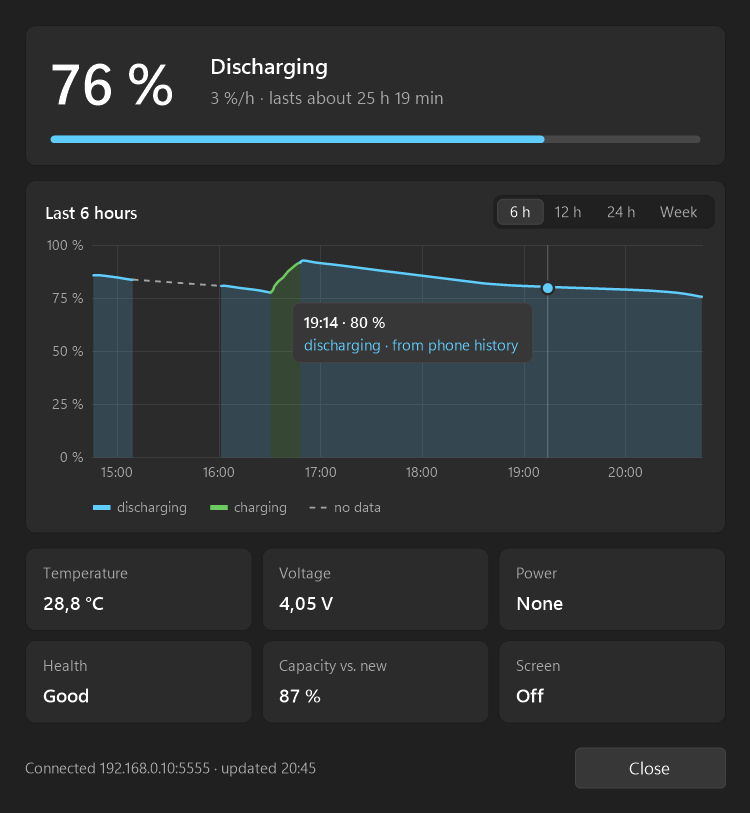
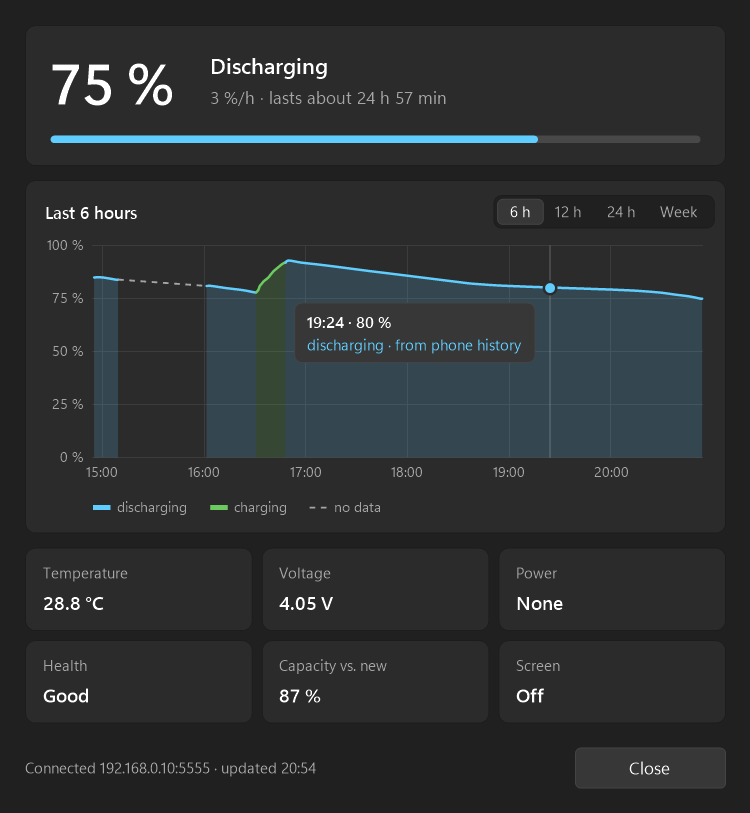
First-run fixes after review
Icon font falls back to Segoe MDL2 Assets on Windows 10; clear tray tips
for a missing adb.exe and for a phone waiting to allow USB debugging;
adb tcpip runs once per USB connection instead of every minute; numbers
follow the interface language; README: SmartScreen, non-Samsung developer
options path, lock screen and adb-over-Wi-Fi notes.

diff --git a/phone-battery.cs b/phone-battery.cs
@@ -56,7 +56,7 @@ static class PhoneBattery
         return "adb.exe";
     }
 
-    static readonly CultureInfo DateCulture = new CultureInfo(RuUi ? "ru-RU" : "en-US");
+    static readonly CultureInfo UiCulture = new CultureInfo(RuUi ? "ru-RU" : "en-US");
     static readonly string[] SpanTitles = { L("Последние 6 часов", "Last 6 hours"), L("Последние 12 часов", "Last 12 hours"), L("Последние 24 часа", "Last 24 hours"), L("Последняя неделя", "Last week") };
     static readonly string[] SpanNames = { L("6 ч", "6 h"), L("12 ч", "12 h"), L("24 ч", "24 h"), L("Неделя", "Week") };
     static readonly Color LineDischarge = Color.FromArgb(0, 103, 192);
@@ -87,6 +87,9 @@ static class PhoneBattery
     static bool? wasCharging;
     static bool lowWarned, lostWarned;
     static int failCount;
+    static volatile bool adbMissing;    // adb.exe could not be started
+    static volatile bool unauthorized;  // the phone is on USB but has not allowed USB debugging yet
+    static string tcpipDone;            // USB serial already switched to Wi-Fi, so adbd is not restarted every minute
 
     [STAThread]
     static void Main(string[] args)
@@ -162,12 +165,14 @@ static class PhoneBattery
             psi.RedirectStandardError = true;
             using (var p = Process.Start(psi))
             {
+                adbMissing = false;
                 var output = p.StandardOutput.ReadToEndAsync();
                 p.StandardError.ReadToEndAsync();
                 if (!p.WaitForExit(timeoutMs)) { try { p.Kill(); } catch { } return ""; }
                 return output.Wait(2000) ? output.Result : "";
             }
         }
+        catch (System.ComponentModel.Win32Exception) { adbMissing = true; return ""; }
         catch { return ""; }
     }
 
@@ -219,8 +224,13 @@ static class PhoneBattery
         string addr = ip == null ? null : ip + ":" + Port;
         var devs = Devices();
         string usb = null;
+        unauthorized = false;
         foreach (var kv in devs)
+        {
+            if (kv.Value == "unauthorized") unauthorized = true;
             if (!kv.Key.Contains(":") && kv.Value == "device") { usb = kv.Key; break; }
+        }
+        if (usb == null) tcpipDone = null;
 
         if (usb != null)
         {
@@ -230,8 +240,9 @@ static class PhoneBattery
                 addr = m.Groups[1].Value + ":" + Port;
                 try { File.WriteAllText(IpFile, m.Groups[1].Value); } catch { }
             }
-            if (addr != null && State(devs, addr) != "device")
+            if (addr != null && State(devs, addr) != "device" && tcpipDone != usb)
             {
+                tcpipDone = usb;
                 RunAdb("-s " + usb + " tcpip " + Port, 8000);
                 Thread.Sleep(2000);
                 RunAdb("connect " + addr, 6000);
@@ -322,7 +333,7 @@ static class PhoneBattery
     static string Temp(Dictionary<string, string> v)
     {
         double t;
-        return double.TryParse(Get(v, "temperature"), out t) ? (t / 10).ToString("0.0") : "?";
+        return double.TryParse(Get(v, "temperature"), out t) ? (t / 10).ToString("0.0", UiCulture) : "?";
     }
 
     static void OnUi(Action a)
@@ -339,13 +350,33 @@ static class PhoneBattery
         if (v == null)
         {
             failCount++;
-            bool warn = failCount >= 3 && !lostWarned;
+            // tray tips are cut at 63 characters
+            string lostTip, lostTitle, lostText;
+            if (adbMissing)
+            {
+                lostTip = L("Телефон: не найден adb.exe", "Phone: adb.exe not found");
+                lostTitle = L("Не найден adb.exe", "adb.exe not found");
+                lostText = L("Положите папку platform-tools из Android SDK рядом с программой — подробности в README.", "Put the Android SDK platform-tools folder next to the program. See the README.");
+            }
+            else if (unauthorized)
+            {
+                lostTip = L("Телефон: разрешите отладку по USB", "Phone: allow USB debugging");
+                lostTitle = L("Разрешите отладку по USB", "Allow USB debugging");
+                lostText = L("На экране телефона: «Всегда разрешать с этого компьютера» и «Разрешить».", "On the phone screen: tick \"Always allow from this computer\" and tap Allow.");
+            }
+            else
+            {
+                lostTip = L("Телефон: нет связи (", "Phone: no connection (") + now + L(")\nПосле перезагрузки — USB-кабель", ")\nAfter a reboot: USB for a minute");
+                lostTitle = L("Телефон не отвечает", "Phone is not responding");
+                lostText = L("Если телефон перезагружался, подключите его кабелем к компьютеру на минуту — программа сама включит связь по Wi-Fi.", "If the phone has rebooted, connect it to the computer by USB for a minute and the program will switch adb back to Wi-Fi.");
+            }
+            bool warn = (adbMissing || unauthorized || failCount >= 3) && !lostWarned;
             if (warn) lostWarned = true;
             OnUi(delegate
             {
                 SetIcon(-1, false);
-                SetTip(L("Телефон: нет связи (", "Phone: no connection (") + now + L(")\nПосле перезагрузки — кабель на минуту", ")\nAfter a reboot, plug in USB for a minute"));
-                if (warn) tray.ShowBalloonTip(10000, L("Телефон не отвечает", "Phone is not responding"), L("Если телефон перезагружался, подключите его кабелем к компьютеру на минуту — программа сама включит связь по Wi-Fi.", "If the phone has rebooted, connect it to the computer by USB for a minute and the program will switch adb back to Wi-Fi."), ToolTipIcon.Warning);
+                SetTip(lostTip);
+                if (warn) tray.ShowBalloonTip(10000, lostTitle, lostText, ToolTipIcon.Warning);
             });
             return;
         }
@@ -449,6 +480,15 @@ static class PhoneBattery
         catch { return false; }
     }
 
+    // Icon glyphs: Segoe Fluent Icons on Windows 11, Segoe MDL2 Assets (same code points) on Windows 10
+    static Font IconFont(float px)
+    {
+        var f = new Font("Segoe Fluent Icons", px, GraphicsUnit.Pixel);
+        if (f.Name == "Segoe Fluent Icons") return f;
+        f.Dispose();
+        return new Font("Segoe MDL2 Assets", px, GraphicsUnit.Pixel);
+    }
+
     static Font UiFont(float px, bool semibold, bool display)
     {
         string name = display ? (semibold ? "Segoe UI Variable Display Semib" : "Segoe UI Variable Display")
@@ -502,7 +542,7 @@ static class PhoneBattery
         var r = new List<string[]>();
         double volt;
         r.Add(new[] { L("Температура", "Temperature"), Temp(v) + " °C" });
-        if (double.TryParse(Get(v, "voltage"), out volt)) r.Add(new[] { L("Напряжение", "Voltage"), (volt / 1000).ToString("0.00") + L(" В", " V") });
+        if (double.TryParse(Get(v, "voltage"), out volt)) r.Add(new[] { L("Напряжение", "Voltage"), (volt / 1000).ToString("0.00", UiCulture) + L(" В", " V") });
         r.Add(new[] { L("Питание", "Power"), Cap(Power(v)) });
         r.Add(new[] { L("Здоровье", "Health"), Cap(HealthName(Get(v, "health"))) });
         if (Get(v, "mSavedBatteryAsoc") != "") r.Add(new[] { L("Ёмкость от заводской", "Capacity vs. new"), Get(v, "mSavedBatteryAsoc") + " %" });
@@ -980,7 +1020,7 @@ static class PhoneBattery
                 {
                     DateTime noon = day.AddHours(12);
                     if (noon > from && noon < now)
-                        g.DrawString(day.ToString("ddd d", DateCulture), small, axisText, X(noon), top + ph + 4 * k, sfCenter);
+                        g.DrawString(day.ToString("ddd d", UiCulture), small, axisText, X(noon), top + ph + 4 * k, sfCenter);
                 }
             }
             else
@@ -1101,7 +1141,7 @@ static class PhoneBattery
         using (var ring = new SolidBrush(t.Card)) g.FillEllipse(ring, px - 6 * k, py - 6 * k, 12 * k, 12 * k);
         using (var dot = new SolidBrush(c)) g.FillEllipse(dot, px - 4 * k, py - 4 * k, 8 * k, 8 * k);
 
-        string when = geo.Hours > 48 ? s.T.ToString("ddd d MMM, HH:mm", DateCulture) : s.T.ToString("HH:mm");
+        string when = geo.Hours > 48 ? s.T.ToString("ddd d MMM, HH:mm", UiCulture) : s.T.ToString("HH:mm");
         string line1 = when + " · " + s.Level + " %";
         string line2 = (s.Charging ? L("заряжается", "charging") : L("разряжается", "discharging")) + (s.Phone ? L(" · по истории телефона", " · from phone history") : "");
         using (var f1 = UiFont(13 * k, true, false))
@@ -1165,7 +1205,7 @@ static class PhoneBattery
             g.TextRenderingHint = TextRenderingHint.AntiAlias;
             g.PixelOffsetMode = PixelOffsetMode.HighQuality;
             Color c = level < 0 ? Gray : (!charging && level <= LowLevel ? Red : fore);
-            using (var f = new Font("Segoe Fluent Icons", S * 0.9f, GraphicsUnit.Pixel))
+            using (var f = IconFont(S * 0.9f))
                 DrawCentered(g, GlyphPhone, f, c, new RectangleF(0, 0, S, S));
 
             float inX = S * 0.31f, inW = S * 0.38f, top = S * 0.17f, h = S * 0.62f;
@@ -1179,7 +1219,7 @@ static class PhoneBattery
             using (var b = new SolidBrush(Color.FromArgb(110, c)))
                 g.FillRectangle(b, inX, top + h - fh, inW, fh);
             if (charging)
-                using (var f = new Font("Segoe Fluent Icons", S * 0.34f, GraphicsUnit.Pixel))
+                using (var f = IconFont(S * 0.34f))
                     DrawCentered(g, GlyphBolt, f, fore, new RectangleF(0, 0, S, S));
         }
         return bmp;

diff --git a/README.md b/README.md
@@ -15,7 +15,8 @@ camera facing you, and you cannot see its screen.
 - **Hover** the icon for level, state, temperature, screen on/off and the
   time of the last reading.
 - **Double-click** (or "Wake phone" in the menu) turns the phone screen on
-  and dismisses the lock screen, so the camera app gets a picture again.
+  and dismisses the lock screen if it has no PIN or pattern, so the camera
+  app gets a picture again.
 - **Notifications**: battery at 30 % or lower, charger disconnected, phone
   not responding three times in a row.
 - **Details window** (right-click → Details…): level, charging or discharging
@@ -48,16 +49,22 @@ Windows 10 or 11. A single exe of about 50 KB, nothing to install.
      phone-battery-tray\phone-battery.exe
    ```
 
-2. **Turn on USB debugging on the phone.** Settings → About phone →
-   Software information → tap "Build number" seven times. Then Settings →
-   Developer options → USB debugging.
+2. **Turn on USB debugging on the phone.** Tap "Build number" seven times
+   to unlock Developer options: on most phones it is in Settings → About
+   phone, on Samsung in Settings → About phone → Software information. Then
+   Settings → Developer options (on some phones under System) → USB
+   debugging. Classic USB debugging is what the program uses; Android 11+
+   "Wireless debugging" with pairing codes is not needed.
 3. **Get the program.** Download `phone-battery.exe` from
-   [Releases](../../releases), or build it yourself (see below).
+   [Releases](../../releases), or build it yourself (see below). The exe is
+   not signed, so Windows SmartScreen may say "Windows protected your PC":
+   click More info → Run anyway. If you would rather not, build it from the
+   source, it takes one command.
 4. **Run it and connect the phone by USB** with a data cable once. When the
    phone asks "Allow USB debugging?", tick "Always allow from this computer"
    and tap Allow. Within a minute the program switches adb to Wi-Fi
    (port 5555) and remembers the phone's address. After that the cable can
-   be unplugged. The phone and the PC must be on the same network.
+   be unplugged. The phone must be on Wi-Fi, in the same network as the PC.
 
 **After the phone reboots**, adb over Wi-Fi is off again, and the icon turns
 into a grey "?". Plug in the cable for a minute and the program switches it
@@ -118,6 +125,16 @@ adb. After a gap longer than 5 minutes it also reads
 30 seconds with the battery level, as offsets from a `TIME:` mark. A pause
 over 10 minutes or a `SHUTDOWN`/`START` event means the phone was off, and
 that stretch is not filled.
+
+Good to know: `adb tcpip 5555` keeps adb listening on the phone's Wi-Fi
+until the phone reboots. Only computers whose adb key you allowed on the
+phone can connect, but on an untrusted network you may prefer to turn USB
+debugging off when you do not need it. After Exit, the `adb.exe` server
+process keeps running in the background; `adb kill-server` stops it.
+
+If the icon is a grey "?", hover it: the tip says whether adb.exe was not
+found, the phone is waiting for "Allow USB debugging", or there is simply no
+connection.
 
 ## License
 
